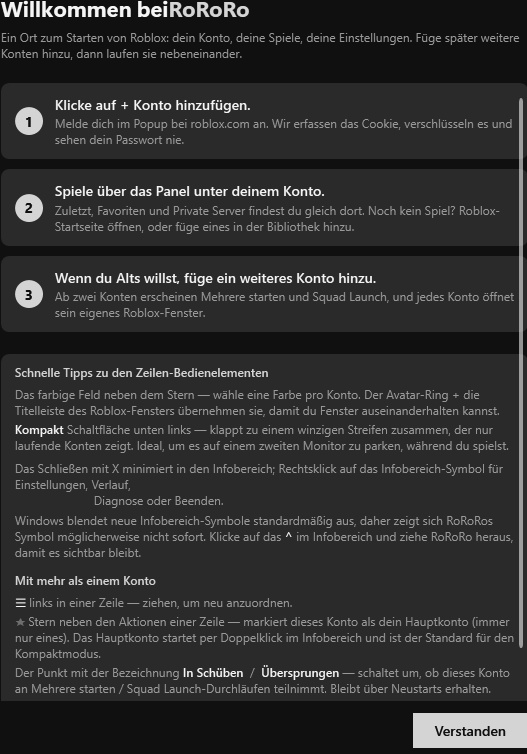
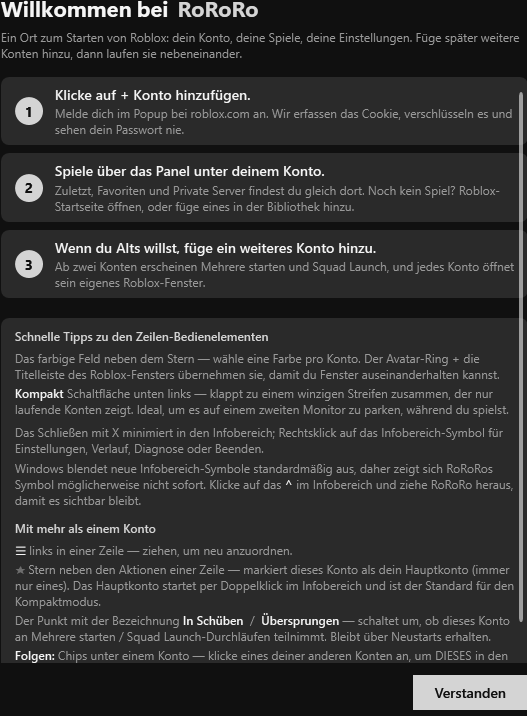
fix(ui): the tour stays 760 tall; title space and tray tip fixed
Item 10 made the step details wrap and raised the window to 810 to fit.
An 810 window centred on its owner runs past a 768 px laptop's work area
and can hide Got it, the tour's only exit. Back to 760, paid for by
tighter step padding, step gaps, outer margin and hero gap; English fits
with no scroll, de and ru scroll inside the tour.

Two tour defects shipped through v1.35, fixed here:
- "Welcome toRoRoRo": resx trims the trailing space; the gap is a margin
  on the RoRoRo half now, pinned by a test watched failing without it.
- The tray tip carried an embedded newline and indent in English and all
  six catalogs; one line now, culture resx regenerated.

Changed region(s): [[0.0, 0.1229, 1.0, 0.9832], [0.0, 0.0, 0.9715, 0.0922]]

diff --git a/src/ROROROblox.App/About/WelcomeWindow.xaml b/src/ROROROblox.App/About/WelcomeWindow.xaml
@@ -5,7 +5,7 @@
         xmlns:x="http://schemas.microsoft.com/winfx/2006/xaml"
         Title="{loc:Loc WelcomeWindow_WelcomeToRororo}"
         AutomationProperties.AutomationId="WelcomeWindow"
-        Height="810" Width="600"
+        Height="760" Width="600"
         WindowStartupLocation="CenterOwner"
         MinHeight="600" MinWidth="520" ResizeMode="CanResize"
         Background="{DynamicResource BgBrush}"
@@ -15,8 +15,8 @@
         <Style x:Key="StepStyle" TargetType="Border">
             <Setter Property="Background" Value="{DynamicResource RowBgBrush}" />
             <Setter Property="CornerRadius" Value="8" />
-            <Setter Property="Padding" Value="14,12" />
-            <Setter Property="Margin" Value="0,0,0,10" />
+            <Setter Property="Padding" Value="14,8" />
+            <Setter Property="Margin" Value="0,0,0,8" />
         </Style>
         <Style x:Key="StepNumberStyle" TargetType="Border">
             <Setter Property="Background" Value="{DynamicResource CyanBrush}" />
@@ -28,7 +28,7 @@
         </Style>
     </Window.Resources>
 
-    <Grid Margin="32,28">
+    <Grid Margin="32,22">
         <Grid.RowDefinitions>
             <RowDefinition Height="Auto" />
             <RowDefinition Height="*" />
@@ -40,7 +40,9 @@
                 <TextBlock Text="{loc:Loc WelcomeWindow_WelcomeTo}"
                            FontFamily="{DynamicResource DisplayFontFamily}" FontSize="{DynamicResource DisplayFontSize}" FontWeight="Bold"
                            Foreground="{DynamicResource WhiteBrush}" />
-                <TextBlock Text="{loc:Loc WelcomeWindow_Rororo}"
+                <!-- The space between the two halves is a margin, not text: resx trims the trailing space of
+                     "Welcome to", so through v1.35 the title read "Welcome toRoRoRo" in every language. -->
+                <TextBlock Text="{loc:Loc WelcomeWindow_Rororo}" Margin="9,0,0,0"
                            FontFamily="{DynamicResource DisplayFontFamily}" FontSize="{DynamicResource DisplayFontSize}" FontWeight="Bold"
                            Foreground="{DynamicResource CyanBrush}" />
             </StackPanel>
@@ -51,7 +53,7 @@
                        TextWrapping="Wrap" />
         </StackPanel>
 
-        <ScrollViewer Grid.Row="1" Margin="0,22,0,0" VerticalScrollBarVisibility="Auto" HorizontalScrollBarVisibility="Disabled">
+        <ScrollViewer Grid.Row="1" Margin="0,16,0,0" VerticalScrollBarVisibility="Auto" HorizontalScrollBarVisibility="Disabled">
         <StackPanel>
             <Border Style="{StaticResource StepStyle}">
                 <Grid>

diff --git a/src/ROROROblox.Tests/Rendering/WelcomeTourTests.cs b/src/ROROROblox.Tests/Rendering/WelcomeTourTests.cs
@@ -44,6 +44,22 @@ public class WelcomeTourTests
         return m.Index;
     }
 
+    /// <summary>
+    /// The title is two TextBlocks ("Welcome to" white, "RoRoRo" cyan). resx trims the trailing space of the first, so
+    /// from the localization pass (#158) through v1.35 the title read "Welcome toRoRoRo" in every language. The gap is a
+    /// left margin on the second block now; this keeps it there.
+    /// </summary>
+    [Fact]
+    public void TheTitlesTwoHalves_AreSeparatedByAMargin_NotByATrimmedSpace()
+    {
+        var xaml = File.ReadAllText(XamlPath());
+        var m = System.Text.RegularExpressions.Regex.Match(xaml, @"<TextBlock Text=""\{loc:Loc WelcomeWindow_Rororo\}""[^>]*>");
+        Assert.True(m.Success, "the RoRoRo half of the title was not found");
+        var margin = System.Text.RegularExpressions.Regex.Match(m.Value, @"Margin=""(\d+),");
+        Assert.True(margin.Success && int.Parse(margin.Groups[1].Value) > 0,
+            "the RoRoRo half of the title has no left margin, so it butts against \"Welcome to\" (resx trims the space)");
+    }
+
     [Fact]
     public void TheTourReadsLauncherFirstThenStepsThenTheMultiAccountTips()
     {

diff --git a/docs/cycles/2026-11-01-account-library/checklist.md b/docs/cycles/2026-11-01-account-library/checklist.md
@@ -527,7 +527,7 @@ regenerated. The sentinel (`.welcome-shown`, `ShouldShowOnStartup`) untouched.
 **Verify:** `dotnet test src/ROROROblox.Tests/ -c Release --no-build --filter "FullyQualifiedName~WindowContentFitsTests|FullyQualifiedName~WelcomeSentinelTests|FullyQualifiedName~ParityFence|FullyQualifiedName~NoRawXamlProseFenceTests"`
 → all passed.
 
-*Built: 0e0d4cc. Hero, steps and the tips split per spec 5; the four multi-account tips sit under WithMoreThanOneAccount, the swatch, Compact, tray and ^ tips above it. The five retired keys are gone from Strings.resx and all six catalogs (nothing else in src used them), the six new keys added via scripts/add-v136-translations.py (STALE prunes the retired ones) and the six culture resx regenerated. Found while capturing: the step rows were a horizontal StackPanel, so every detail line ran off the right edge unwrapped (step 1 too, in v1.35); each step is now a two-column Grid so details wrap. That made en want 804.7 px against 760, so the window is Height 810 (width 600 and MinHeight 600 unchanged). WindowContentFitsTests gained WelcomeWindow. WelcomeTourTests pins the reading order (watched failing with the heading swapped onto the swatch tip) and carries the opt-in item10-tour-{en,de,ru}-{brand,flatline}-96dpi.png captures: en fits with no scroll; de and ru scroll 43 px (extent 660.8 vs viewport 618.2), the Follow tip below the fold, nothing clipped. No fence moved. Suite: 3,385 unit + 7 skips; harness 27 + 1.*
+*Built: 0e0d4cc. Hero, steps and the tips split per spec 5; the four multi-account tips sit under WithMoreThanOneAccount, the swatch, Compact, tray and ^ tips above it. The five retired keys are gone from Strings.resx and all six catalogs (nothing else in src used them), the six new keys added via scripts/add-v136-translations.py (STALE prunes the retired ones) and the six culture resx regenerated. Found while capturing: the step rows were a horizontal StackPanel, so every detail line ran off the right edge unwrapped (step 1 too, in v1.35); each step is now a two-column Grid so details wrap. That made en want 804.7 px against 760, so the window is Height 810 (width 600 and MinHeight 600 unchanged). [Superseded by the orchestrator the same day: back to 760, paid for by tighter spacing, because an 810 window hides Got it on a 768 px laptop; the title space and the tray tip's stray newline fixed alongside.] WindowContentFitsTests gained WelcomeWindow. WelcomeTourTests pins the reading order (watched failing with the heading swapped onto the swatch tip) and carries the opt-in item10-tour-{en,de,ru}-{brand,flatline}-96dpi.png captures: en fits with no scroll; de and ru scroll 43 px (extent 660.8 vs viewport 618.2), the Follow tip below the fold, nothing clipped. No fence moved. Suite: 3,385 unit + 7 skips; harness 27 + 1.*
 
 ## 11. Riders in code: #221, #52, the cursor fence, the sheet-parity fence
 

diff --git a/docs/decisions.md b/docs/decisions.md
@@ -890,3 +890,13 @@ Mine, not Este's, and open to a veto: the first measurement of the new text pair
 **Decision:** Wrapped details, and `Height` 760 to 810 (Width 600, MinHeight 600 unchanged), rather than trimming the step padding and margins by about 45 px or letting the frame clip. German and Russian still scroll about 43 px in the tips block, which is the ScrollViewer doing its job.
 
 **Consequences:** On a 768 px-high display the window is taller than the work area, as 760 already nearly was. If that matters, trim the rhythm instead of the content.
+
+### 2026-11-03 — The tour stays 760 tall; two shipped tour defects fixed with it
+
+**Context:** Item 10's worker made the tour's step details wrap (they ran off the right edge unwrapped, step 1 included, since v1.35). That made English want 804.7 px, and it raised the window to 810 to pass `WindowContentFitsTests`. The window is centred on its owner and **Got it** is its only exit, at the bottom: on a 1366x768 laptop an 810 px window runs past the work area and can hide it.
+
+**Decision:** The window goes back to 760. Spacing pays for it instead: step padding 12 to 8, the gap between steps 10 to 8, the outer margin 28 to 22, and the gap under the hero 22 to 16. Two defects in the tour that shipped through v1.35 are fixed in the same commit. The title read "Welcome toRoRoRo" in every language, because resx trims the trailing space of "Welcome to"; the gap is now a 9 px left margin on the RoRoRo half, pinned by `WelcomeTourTests.TheTitlesTwoHalves_AreSeparatedByAMargin_NotByATrimmedSpace` (watched failing with the margin removed). The tray tip carried an embedded newline and 24 spaces from its XAML origin, in English and all six catalogs, which rendered as a broken indent; it is one line now in all seven files, and the culture resx are regenerated.
+
+**Consequences:** English fits 760 with no scroll; German and Russian scroll a little inside the tour's ScrollViewer, with Got it always visible. The worker's entry above, which records 810, is superseded by this one.
+
+**Evidence:** `src/ROROROblox.App/About/WelcomeWindow.xaml`; `docs/cycles/2026-11-01-account-library/mocks/compare/item10-tour-*.png`.
